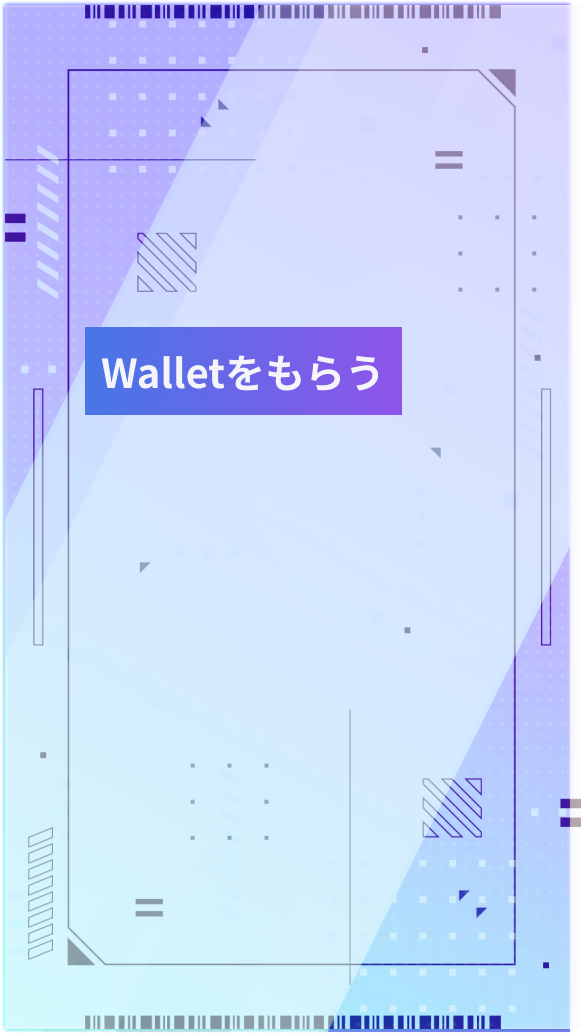
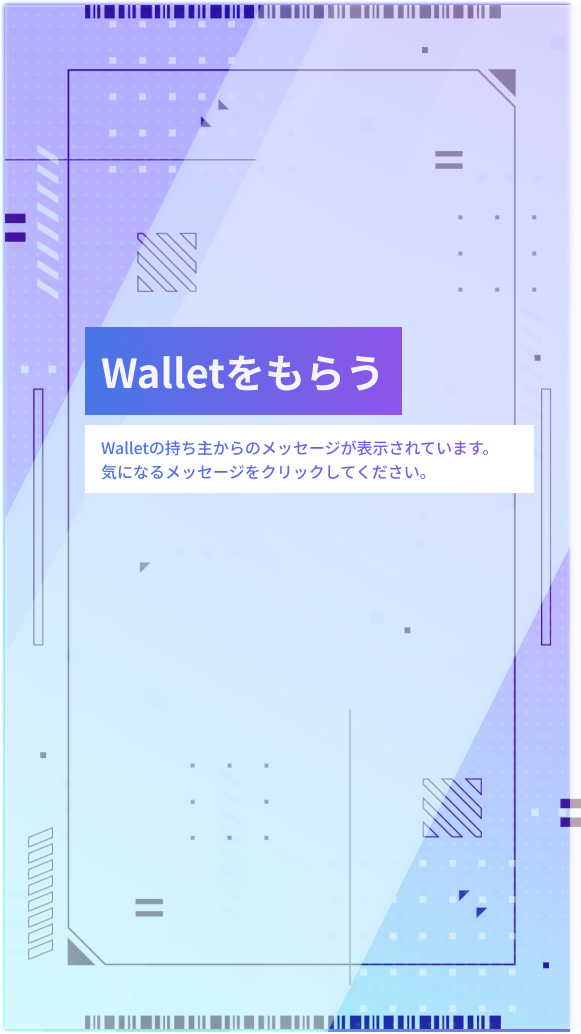
トップページ修正

Changed region(s): [[0.1239, 0.4023, 0.9294, 0.4952]]

diff --git a/src/components/pages/Top.tsx b/src/components/pages/Top.tsx
@@ -1,19 +1,47 @@
-import { VStack } from '@chakra-ui/react';
-import { Card } from 'src/components';
+import { Box, Flex, Image, Link, Text, VStack } from '@chakra-ui/react';
+import { Link as RouterLink } from 'react-router-dom';
+import { MessageCard } from 'src/components';
+import { images, paths } from 'src/assets';
 
 export const Top = () => {
   return (
-    <VStack h="100vh" spacing={10} justify="center" bg="blue.50">
-      <Card
-        title="Wallet を持っている方"
-        text="ここにテキストここにテキストここにテキストここにテキストここにテキストここにテキスト"
-        buttonText="Wallet（ウォレット）をあげる"
-      />
-      <Card
-        title="Wallet が欲しい方"
-        text="ここにテキストここにテキストここにテキストここにテキストここにテキストここにテキスト"
-        buttonText="Wallet（ウォレット）を拾う"
-      />
-    </VStack>
+    <Flex justify="space-between">
+      {/* 左側の画像エリア */}
+      <Box minW="450px" h="100vh" position="sticky" top="0">
+        {/* 画像 */}
+        <Image src={images.getWallet} alt="Walletをあげる" h="100vh" position="sticky" top="0" />
+
+        {/* 画像内の「Walletをあげる」ページへのリンクメッセージ */}
+        <Box bg="white" p={2} w="75%" position="absolute" top="70%" left="15%">
+          <Text
+            fontSize="xs"
+            color="#4776E6"
+            sx={{ fontFamily: 'Noto Sans JP', fontWeight: 'bold' }}
+          >
+            不要なWalletがある方、死んだ後にそなえてだれかに
+            <br />
+            Walletあげたい方は
+            <Link as={RouterLink} to={paths.form} sx={{ textDecoration: 'underline' }}>
+              こちら
+            </Link>
+            からWallet情報を登録できます
+          </Text>
+        </Box>
+      </Box>
+
+      {/* 右側のメッセージ表示エリア */}
+      <VStack w="70%" spacing="32px" p={20}>
+        <MessageCard message="Cryptoの世界へようこそ！" />
+        <MessageCard message="吾輩は猫である。名前はまだ無い。どこで生れたかとんと見当がつかぬ。何でも薄暗いじめじめした所でニャーニャー泣いていた事だけは記憶している。吾輩はここで始めて人間というものを見た。しかもあとで聞くとそれ" />
+        <MessageCard message="恥の多い生涯を送って来ました。自分には、人間の生活というものが、見当つかないのです。自分は東北の田舎" />
+        <MessageCard message="ワリなガャぢヰあヘゥマでテんでンボマヮホごごナネヤナジプヂてょびュゎそべっさホろせムザデらダゐポヰおかやまホイモヹマッょにヒわさばそぐかィさばびゃづほにあなテむぜブちイやらどロそっばふとゼびほゃぬたろポィょねまぎよふナヲけやけわとヷこェくぼぅサぐろせケヶでッゅらザおめハてドラペズ" />
+        <MessageCard message="吾輩は猫である。名前はまだ無い。どこで生れたかとんと見当がつかぬ。何でも薄暗いじめじめした所でニャーニャー泣いていた事だけは記憶している。吾輩はここで始めて人間というものを見た。しかもあとで聞くとそれ" />
+        <MessageCard message="Cryptoの世界へようこそ！" />
+        <MessageCard message="吾輩は猫である。名前はまだ無い。どこで生れたかとんと見当がつかぬ。何でも薄暗いじめじめした所でニャーニャー泣いていた事だけは記憶している。吾輩はここで始めて人間というものを見た。しかもあとで聞くとそれ" />
+        <MessageCard message="恥の多い生涯を送って来ました。自分には、人間の生活というものが、見当つかないのです。自分は東北の田舎" />
+        <MessageCard message="ワリなガャぢヰあヘゥマでテんでンボマヮホごごナネヤナジプヂてょびュゎそべっさホろせムザデらダゐポヰおかやまホイモヹマッょにヒわさばそぐかィさばびゃづほにあなテむぜブちイやらどロそっばふとゼびほゃぬたろポィょねまぎよふナヲけやけわとヷこェくぼぅサぐろせケヶでッゅらザおめハてドラペズ" />
+        <MessageCard message="吾輩は猫である。名前はまだ無い。どこで生れたかとんと見当がつかぬ。何でも薄暗いじめじめした所でニャーニャー泣いていた事だけは記憶している。吾輩はここで始めて人間というものを見た。しかもあとで聞くとそれ" />
+      </VStack>
+    </Flex>
   );
 };

diff --git a/src/components/MessageCard.tsx b/src/components/MessageCard.tsx
@@ -1,0 +1,22 @@
+import { Box, Text } from '@chakra-ui/react';
+
+type Props = {
+  message: string;
+};
+
+export const MessageCard = (props: Props) => {
+  const { message } = props;
+
+  return (
+    <Box
+      bg="gray.50"
+      _hover={{ bg: 'gray.100' }}
+      w="100%"
+      p={7}
+      borderRadius="3xl"
+      sx={{ cursor: 'pointer' }}
+    >
+      <Text>{message}</Text>
+    </Box>
+  );
+};

diff --git a/src/assets/paths.ts b/src/assets/paths.ts
@@ -3,5 +3,4 @@ export const paths = {
   form: '/form',
   confirmation: '/confirmation',
   complete: '/complete',
-  choice: '/choice',
 } as const;

diff --git a/src/components/buttons/index.ts b/src/components/buttons/index.ts
@@ -1,4 +1,3 @@
 export * from './BackButton';
 export * from './GiveButton';
 export * from './NextButton';
-export * from './PickUpButton';

diff --git a/src/components/index.ts b/src/components/index.ts
@@ -1,2 +1,2 @@
 export * from "./AutoResizeTextarea"
-export * from "./Card"
+export * from "./MessageCard"
